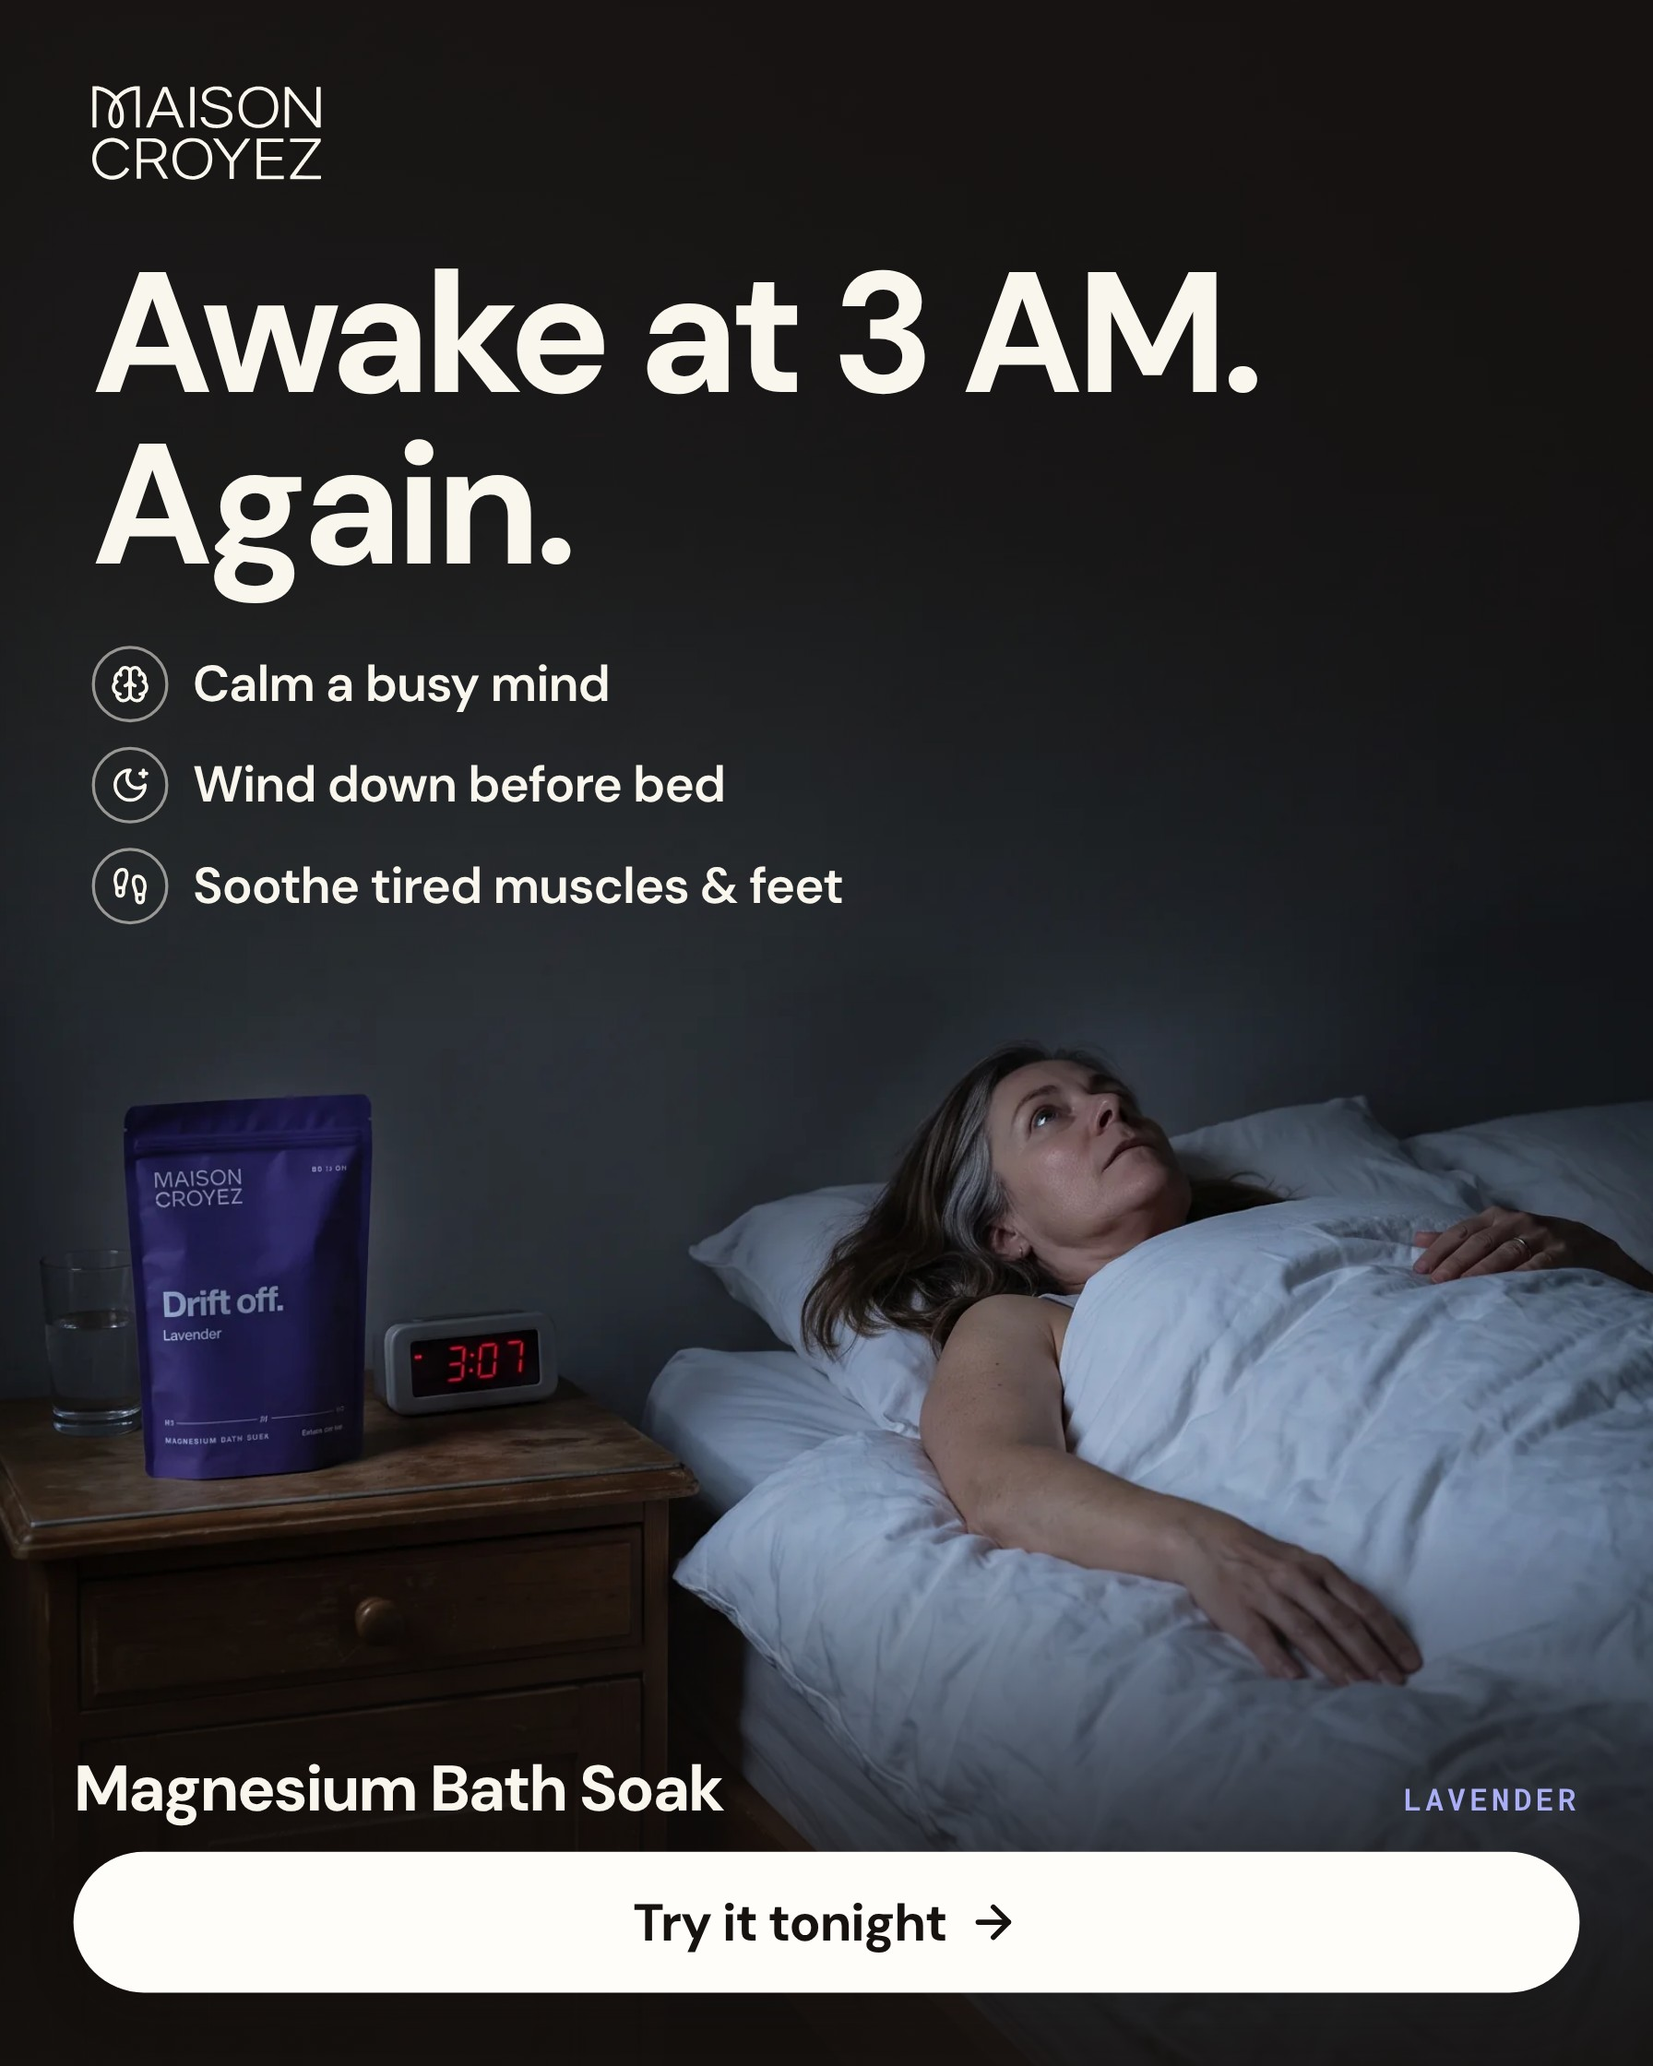
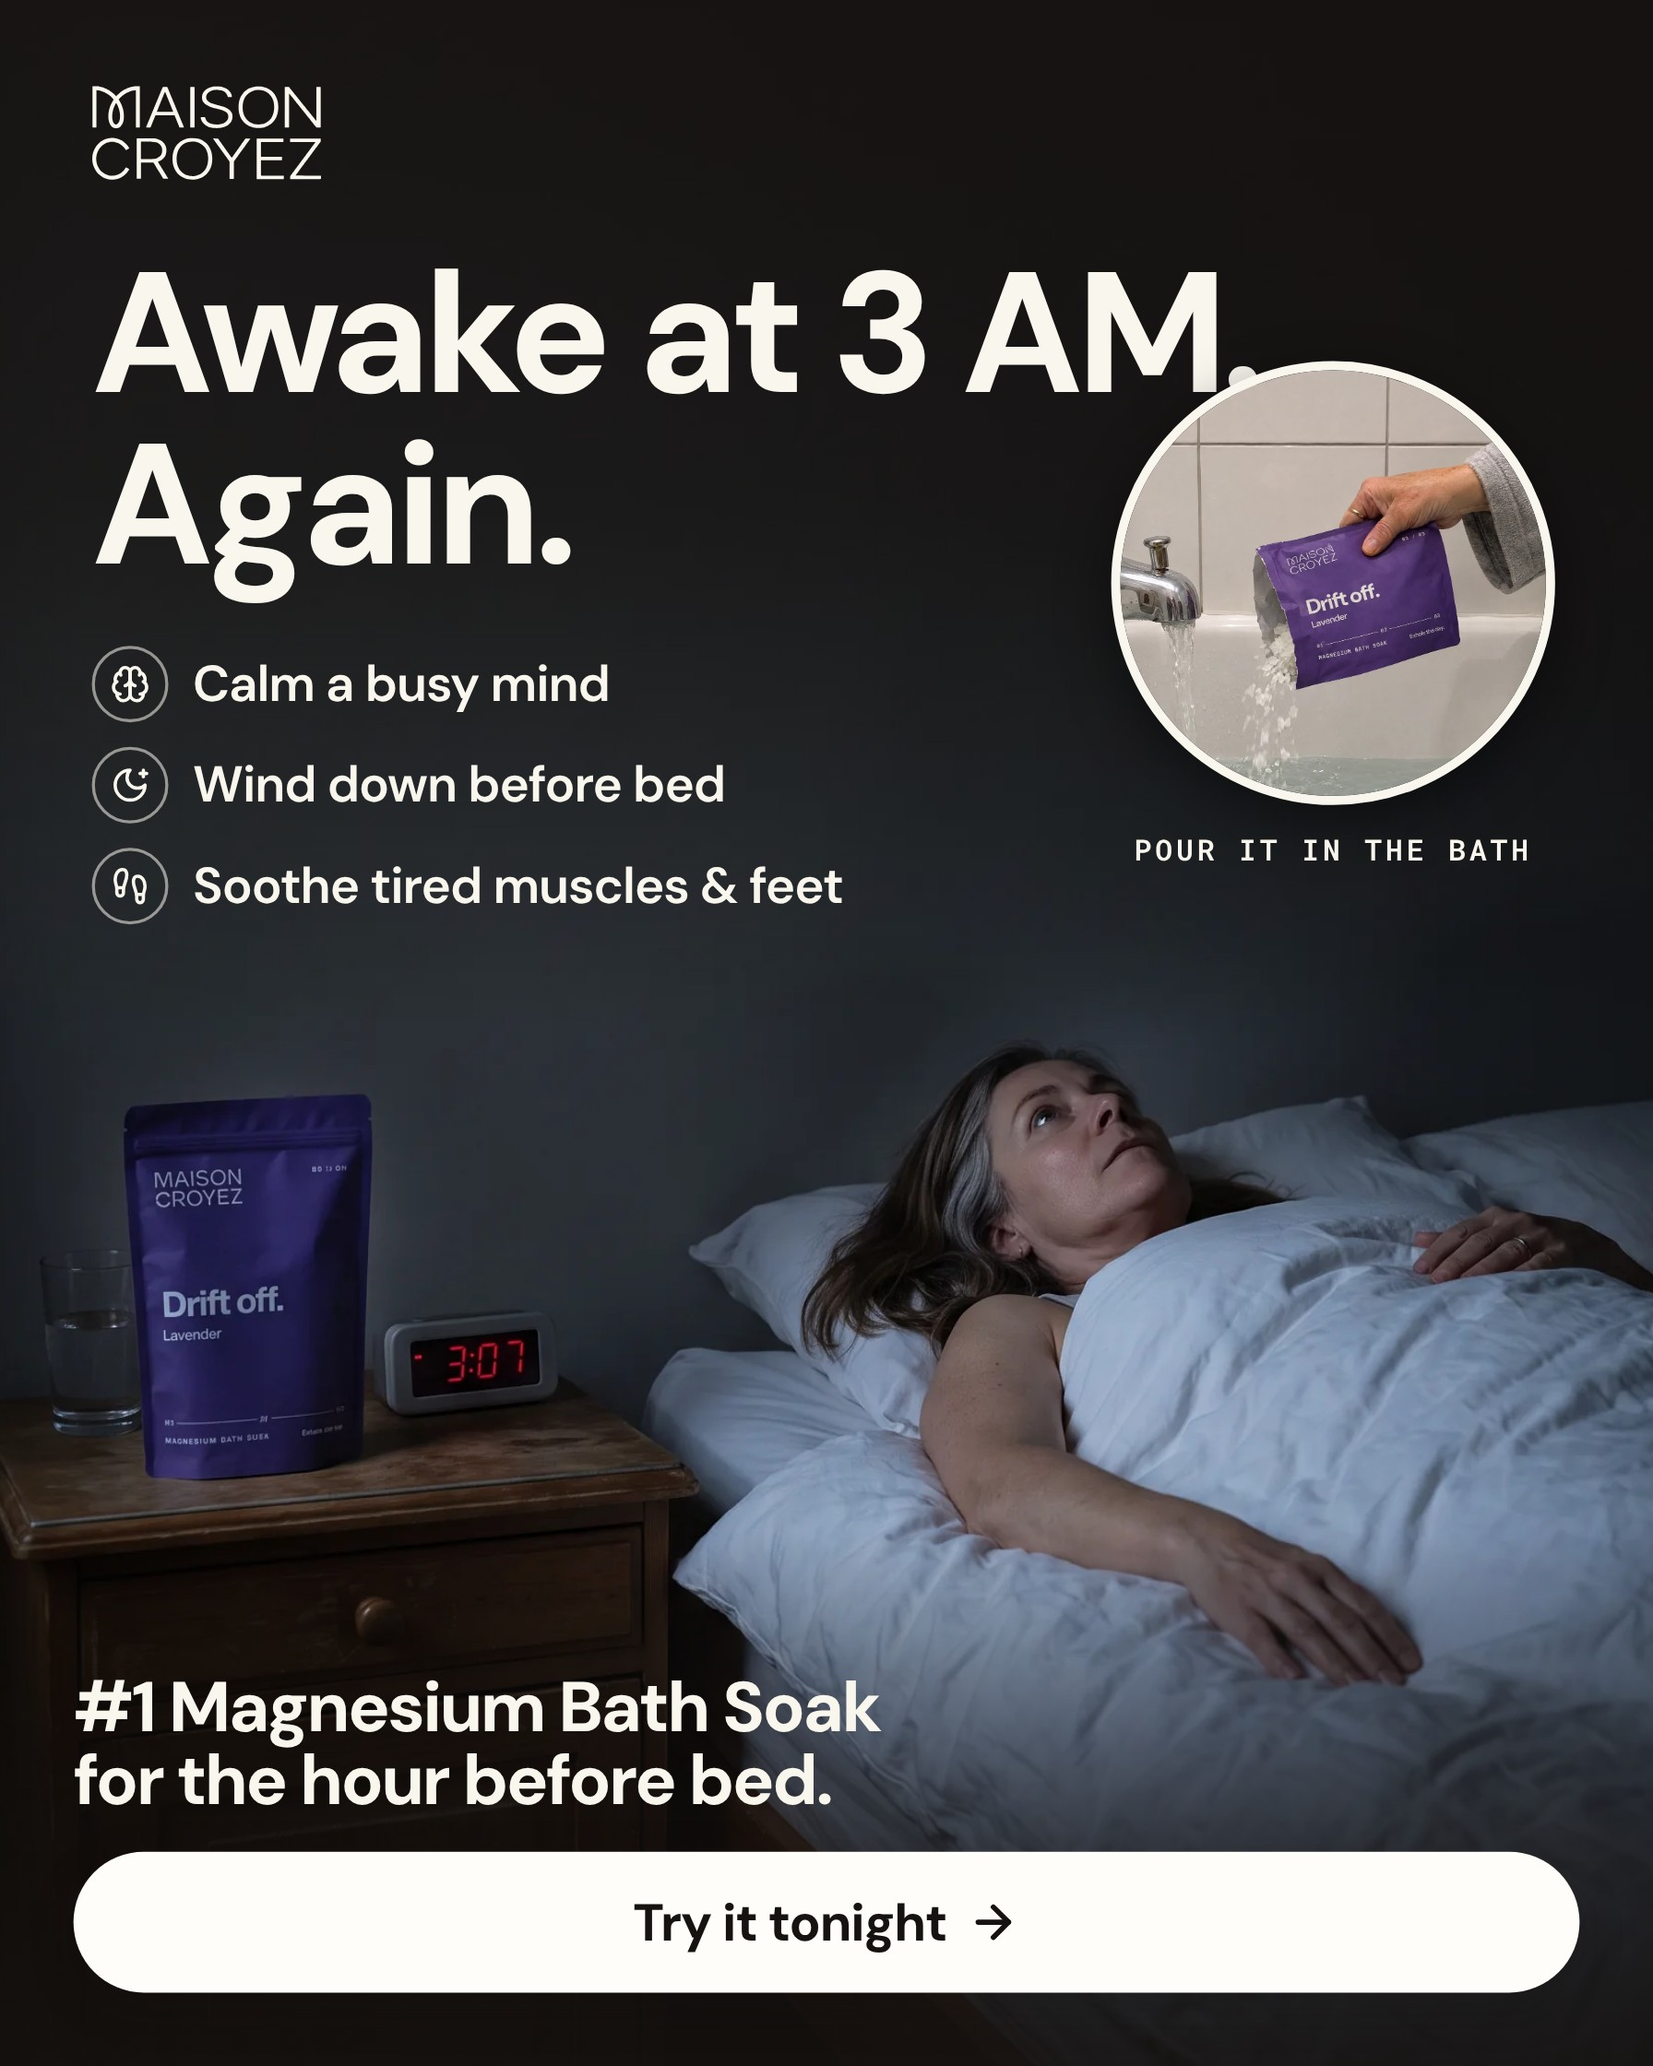
Bath soak ads: the owner's text changes; fetch the reshot aches and foot basin photos
Claude-Session: https://claude.ai/code/session_01Qt6jwbZYcUd6pzyfawb3Bj

diff --git a/lp-factory/ads/bath-soak/make-ads.js b/lp-factory/ads/bath-soak/make-ads.js
@@ -43,7 +43,14 @@ h1{font-weight:700;letter-spacing:-.04em;line-height:1.0;margin-top:44px;max-wid
 .vlist li{display:flex;align-items:center;gap:16px;font-weight:600;font-size:33px;letter-spacing:-.02em}
 .vlist .ic{width:50px;height:50px;border:2px solid rgba(249,246,238,.55)}.vlist svg{width:26px;height:26px}
 .foot{position:absolute;left:48px;right:48px;bottom:48px}
-.foot .top{display:flex;justify-content:space-between;align-items:baseline;margin-bottom:20px}
+.foot .top{margin-bottom:22px}
+.foot .nm{font-size:46px;line-height:1.04;display:block}
+.circ{position:absolute;border-radius:50%;overflow:hidden;border:6px solid #F9F6EE;box-shadow:0 12px 36px rgba(0,0,0,.45)}
+.circ img{width:100%;height:100%;object-fit:cover;display:block}
+.circ-cap{position:absolute;text-align:center;font:600 19px/1.2 "Roboto Mono",monospace;letter-spacing:.12em;text-transform:uppercase;color:#F9F6EE}
+.big{font-weight:700;font-size:52px;letter-spacing:-.03em;line-height:1;text-transform:uppercase;text-align:center;white-space:nowrap}
+.cbot.col{flex-direction:column;align-items:center;gap:22px}
+.blk .sub{color:#F1EADC;font-size:34px;margin-top:16px}
 /* 02 callouts and 11 stickers */
 .co{position:absolute;display:flex;align-items:center;gap:14px;background:#FFFDF9;color:#161210;border-radius:24px;padding:14px 22px 14px 14px;font-weight:600;font-size:28px;line-height:1.1;letter-spacing:-.02em;box-shadow:0 8px 28px rgba(22,18,16,.2)}
 .co .ic{width:58px;height:58px;background:#E7E8FB;color:#4B55D6}.co svg{width:31px;height:31px}
@@ -62,9 +69,9 @@ h1{font-weight:700;letter-spacing:-.04em;line-height:1.0;margin-top:44px;max-wid
 .nums em{font:600 21px/1 "Roboto Mono",monospace;letter-spacing:.1em;color:#4B55D6;font-style:normal;display:block}
 .nums span{display:block;margin-top:10px;font-weight:700;font-size:30px;line-height:1.08;letter-spacing:-.025em;text-wrap:balance}
 /* 05 timeline */
-.rows{display:grid;gap:24px;margin-top:36px;align-self:stretch}
-.r{display:grid;grid-template-columns:218px 1fr;gap:32px;align-items:center}
-.r img{width:218px;height:218px;object-fit:cover;border-radius:24px;display:block}
+.rows{display:grid;gap:20px;margin-top:32px;align-self:stretch}
+.r{display:grid;grid-template-columns:196px 1fr;gap:30px;align-items:center}
+.r img{width:196px;height:196px;object-fit:cover;border-radius:24px;display:block}
 .r .t{font:600 24px/1 "Roboto Mono",monospace;letter-spacing:.1em;color:#4B55D6;display:flex;align-items:center;gap:16px}
 .r .t::after{content:"";flex:1;height:2px;background:#161210;opacity:.3}
 .r b{display:block;font-size:44px;letter-spacing:-.035em;line-height:1.05;margin-top:12px}
@@ -120,47 +127,49 @@ const cta = (a, cls) => `<span class="cta ${cls}">${esc(a.cta)}${icon('arrow-rig
 const head = (a, right) => `<div class="bar">${LOGO}${right || ''}</div>`;
 const hook = (a) => `<h1 style="font-size:${a.size}px">${esc(a.h)}</h1>${a.sub ? `<p class="sub">${esc(a.sub)}</p>` : ''}${a.src ? `<span class="src">${esc(a.src)}</span>` : ''}`;
 const namePill = `<span class="pill">${esc(CFG.product)}</span>`;
+const nm = (a) => esc(a.name || CFG.product); // the words beside or above the button
+const circ = (a) => a.circle ? `<div class="circ" style="${at(a.circle)};height:${a.circle.width}px"><img src="${img(a.circle.img)}" style="object-position:${a.circle.pos || '50% 50%'}"></div><div class="circ-cap" style="left:${1080 - a.circle.right - a.circle.width - 30}px;width:${a.circle.width + 60}px;top:${a.circle.top + a.circle.width + 18}px">${esc(a.circle.cap)}</div>` : '';
 const at = (o) => ['left', 'right', 'top', 'bottom', 'width'].filter((k) => o[k] !== undefined).map((k) => `${k}:${o[k]}px`).join(';') + (o.rot ? `;transform:rotate(${o.rot}deg)` : '');
 
 const L = {
   // 01: the benefits as a list under the hook on the dark wall; product name and a wide button at the bottom
   list: (a) => `<div class="ad ${a.theme}">${photo(a)}${scrim(a)}<div class="scrim" style="background:linear-gradient(to top,rgba(22,18,16,.9) 0%,rgba(22,18,16,.6) 12%,rgba(22,18,16,0) 26%)"></div>
     <div class="in">${head(a)}${hook(a)}<ul class="vlist">${bens(a).map((b) => `<li><span class="ic">${icon(b.icon)}</span>${esc(b.text)}</li>`).join('')}</ul></div>
-    <div class="foot"><div class="top"><span class="nm">${esc(CFG.product)}</span><span class="mono" style="color:#A9AEF7">${esc(a.tag || '')}</span></div>${cta(a, 'cream full')}</div></div>`,
+    ${circ(a)}<div class="foot"><div class="top"><span class="nm">${nm(a)}</span></div>${cta(a, 'cream full')}</div></div>`,
   // 02: the benefits as callouts around her; product name in the header; button centered
-  callouts: (a) => `<div class="ad ${a.theme}">${photo(a)}${scrim(a)}<div class="in">${head(a, namePill)}${hook(a)}</div>
+  callouts: (a) => `<div class="ad ${a.theme}">${photo(a)}${scrim(a)}<div class="scrim" style="background:linear-gradient(to top,rgba(249,246,238,.96) 0%,rgba(249,246,238,.9) 13%,rgba(249,246,238,0) 27%)"></div><div class="in">${head(a)}${hook(a)}</div>
     ${bens(a).map((b, i) => `<div class="co" style="${at(a.spots[i])}"><span class="ic">${icon(b.icon)}</span><span>${esc(b.text)}</span></div>`).join('')}
-    <div class="cbot">${cta(a, 'ind')}</div></div>`,
+    <div class="cbot col"><span class="big">${nm(a)}</span>${cta(a, 'ind')}</div></div>`,
   // 03: a dark band across the bottom with the three benefits; name and button on the tub above it
   band: (a) => `<div class="ad ${a.theme}">${photo(a)}${scrim(a)}<div class="in">${head(a)}${hook(a)}</div>
-    <div class="nrow" style="bottom:${a.rowBottom || 204}px"><span class="nm chip">${esc(CFG.product)}</span>${cta(a, 'ind')}</div>
+    <div class="nrow" style="bottom:${a.rowBottom || 204}px"><span class="nm chip">${nm(a)}</span>${cta(a, 'ind')}</div>
     <div class="band">${bens(a).map((b) => `<div><span class="ic">${icon(b.icon)}</span><span>${esc(b.text)}</span></div>`).join('')}</div></div>`,
   // 04: an editorial page: the claim, the photo in a frame, the benefits numbered
   framed: (a) => `<div class="ad light"><div class="in">${head(a)}${hook(a)}</div>
     <div class="frame" style="top:${a.frame[0]}px;height:${a.frame[1]}px"><img src="${img(a.img)}" style="object-position:${a.pos || '50% 50%'}"></div>
     <ol class="nums" style="top:${a.frame[0] + a.frame[1] + 34}px">${bens(a).map((b, i) => `<li><em>0${i + 1}</em><span>${esc(b.text)}</span></li>`).join('')}</ol>
-    <div class="nrow" style="bottom:48px"><span class="nm">${esc(CFG.product)}</span>${cta(a, 'ind')}</div></div>`,
+    <div class="nrow" style="bottom:48px"><span class="nm">${nm(a)}</span>${cta(a, 'ind')}</div></div>`,
   // 05: the evening as a timeline; benefits in one row; a wide button that names the product
-  clock: (a) => `<div class="ad light"><div class="in">${head(a)}<h1 style="font-size:${a.size}px">${esc(a.h)}</h1><div class="rows">${a.rows.map((r) => `<div class="r"><img src="${img(r[0])}"${r[4] ? ` style="object-position:${r[4]}"` : ''}><div><div class="t">${esc(r[1])}</div><b>${esc(r[2])}</b>${r[3] ? `<span>${esc(r[3])}</span>` : ''}</div></div>`).join('')}</div></div>
+  clock: (a) => `<div class="ad light"><div class="in">${head(a)}<h1 style="font-size:${a.size}px">${esc(a.h)}</h1>${a.sub ? `<p class="sub">${esc(a.sub)}</p>` : ''}<div class="rows">${a.rows.map((r) => `<div class="r"><img src="${img(r[0])}"${r[4] ? ` style="object-position:${r[4]}"` : ''}><div><div class="t">${esc(r[1])}</div><b>${esc(r[2])}</b>${r[3] ? `<span>${esc(r[3])}</span>` : ''}</div></div>`).join('')}</div></div>
     <div class="inl onlight" style="position:absolute;left:60px;right:60px;bottom:176px">${bens(a).map((b) => `<div><span class="ic">${icon(b.icon)}</span><span>${esc(b.text)}</span></div>`).join('')}</div>
     <div class="cbot">${cta(a, 'ind full')}</div></div>`,
   // 06: photo on top, a color block below with the hook, the benefits in a row, name and button
   splitBottom: (a) => `<div class="ad light" style="background:${COL[a.color]}"><div class="ph" style="top:0;height:${a.split}px"><img src="${img(a.img)}" style="object-position:${a.pos || '50% 50%'}"></div>
     <div class="in">${head(a)}</div>
-    <div class="blk" style="top:${a.split}px;bottom:0;background:${COL[a.color]}"><h1 style="font-size:${a.size}px">${esc(a.h)}</h1>
-    <div class="inl ondark" style="margin-top:30px">${bens(a).map((b) => `<div><span class="ic">${icon(b.icon)}</span><span>${esc(b.text)}</span></div>`).join('')}</div>
-    <div class="nrow2"><span class="nm">${esc(CFG.product)}<small class="mono" style="color:rgba(249,246,238,.75)">${esc(a.tag || '')}</small></span>${cta(a, 'cream')}</div></div></div>`,
+    <div class="blk" style="top:${a.split}px;bottom:0;background:${COL[a.color]}"><h1 style="font-size:${a.size}px">${esc(a.h)}</h1>${a.sub ? `<p class="sub">${esc(a.sub)}</p>` : ''}
+    <div class="inl ondark" style="margin-top:28px">${bens(a).map((b) => `<div><span class="ic">${icon(b.icon)}</span><span>${esc(b.text)}</span></div>`).join('')}</div>
+    <div class="nrow2">${cta(a, 'cream full')}</div></div></div>`,
   // 07: three tiles on the floor, the button under them; product name in the header
-  tiles: (a) => `<div class="ad ${a.theme}">${photo(a)}${scrim(a)}<div class="in">${head(a, namePill)}${hook(a)}</div>
+  tiles: (a) => `<div class="ad ${a.theme}">${photo(a)}${scrim(a)}<div class="in">${head(a)}${hook(a)}</div>
     <div class="tiles" style="bottom:${a.tilesBottom || 146}px">${bens(a).map((b) => `<div class="tile">${icon(b.icon)}${esc(b.text)}</div>`).join('')}</div>
     <div class="cbot" style="bottom:40px">${cta(a, 'night full')}</div></div>`,
   // 08: a checklist panel beside her, with the product name as its title; button at the bottom corner
   panel: (a) => `<div class="ad ${a.theme}">${photo(a)}${scrim(a)}<div class="in">${head(a)}${hook(a)}</div>
-    <div class="panel" style="${at(a.panel)}"><span class="mono">${esc(CFG.product)}</span><ul>${bens(a).map((b) => `<li><span class="ic">${icon('check')}</span><span>${esc(b.text)}</span></li>`).join('')}</ul></div>
+    <div class="panel" style="${at(a.panel)}"><span class="mono">${esc(a.panelTitle || CFG.product)}</span><ul>${bens(a).map((b) => `<li><span class="ic">${icon('check')}</span><span>${esc(b.text)}</span></li>`).join('')}</ul></div>
     <div style="position:absolute;${at(a.ctaAt)}">${cta(a, 'ind')}</div></div>`,
   // 09: one card: name, button, the three benefits with icons
   card: (a) => `<div class="ad ${a.theme}">${photo(a)}${scrim(a)}<div class="in">${head(a)}${hook(a)}</div>
-    <div class="card"><div class="ct"><b>${esc(CFG.product)}</b>${cta(a, 'ind sm')}</div><div class="bs">${bens(a).map((b) => `<div class="b"><span class="ic">${icon(b.icon)}</span><span>${esc(b.text)}</span></div>`).join('')}</div></div></div>`,
+    <div class="card"><div class="ct"><b>${nm(a)}</b>${cta(a, 'ind sm')}</div><div class="bs">${bens(a).map((b) => `<div class="b"><span class="ic">${icon(b.icon)}</span><span>${esc(b.text)}</span></div>`).join('')}</div></div></div>`,
   // 10: a caption under each bag, the benefits as one line, the button centered, all on the white side of the tub
   shelf: (a) => `<div class="ad ${a.theme}">${photo(a)}${scrim(a)}<div class="in">${head(a)}${hook(a)}</div>
     ${a.caps.map((c) => `<div class="cap" style="left:${c[0] - 125}px;top:${a.capTop}px"><span class="mono">${esc(c[1])}</span><b>${esc(c[2])}</b></div>`).join('')}
@@ -173,7 +182,7 @@ const L = {
   // 12: a color block on top with the hook, the product line and the benefits as tags; photo below; button on the photo
   splitTop: (a) => `<div class="ad light" style="background:${COL[a.color]}"><div class="ph" style="top:${a.split}px;bottom:0"><img src="${img(a.img)}" style="object-position:${a.pos || '50% 50%'}"></div>
     <div class="blk" style="top:0;height:${a.split}px;background:${COL[a.color]};padding-top:56px"><div style="width:150px">${LOGO}</div><h1 style="font-size:${a.size}px;margin-top:38px">${esc(a.h)}</h1>
-    <span class="mono" style="margin-top:22px;color:rgba(249,246,238,.82)">${esc(a.tag)}</span>
+    <p class="sub">${esc(a.sub)}</p>
     <div class="tags">${bens(a).map((b) => `<span>${icon(b.icon)}${esc(b.text)}</span>`).join('')}</div></div>
     <div class="cbot">${cta(a, 'cream')}</div></div>`,
 };
@@ -190,7 +199,7 @@ const L = {
     const fits = await pg.evaluate((product) => { const all = [...document.querySelectorAll('.ad h1,.ad p,.ad li,.ad .cta,.ad .co,.ad .st,.ad .tile,.ad .panel,.ad .card,.ad .cap,.ad .line div,.ad .inl div,.ad .band div,.ad .tags span,.ad .nm,.ad .pill,.ad .src')];
       const out = all.filter((e) => { const r = e.getBoundingClientRect(); return r.left < 20 || r.right > 1060 || r.bottom > 1338 || r.top < 20; }).map((e) => e.className || e.tagName);
       const h = document.querySelector('h1'); const t = document.querySelector('.ad').innerText;
-      return { h1Lines: Math.round(h.getBoundingClientRect().height / parseFloat(getComputedStyle(h).lineHeight)), h1Ends: Math.round(h.getBoundingClientRect().bottom), outside: out, cta: !!document.querySelector('.cta'), named: /magnesium (bath )?soak/i.test(t), fonts: [...document.fonts].filter((x) => x.status === 'loaded').length }; }, CFG.product);
+      return { h1Lines: Math.round(h.getBoundingClientRect().height / parseFloat(getComputedStyle(h).lineHeight)), h1Ends: Math.round(h.getBoundingClientRect().bottom), outside: out, cta: !!document.querySelector('.cta'), named: /magnesium (bath )?soak/i.test(t) ? 'magnesium' : /bath soak/i.test(t) ? 'bath soak only' : 'NO', fonts: [...document.fonts].filter((x) => x.status === 'loaded').length }; }, CFG.product);
     await (await pg.$('.ad')).screenshot({ path: path.join(OUT, `bath-soak-ad-${a.id}.jpg`), type: 'jpeg', quality: 90 });
     console.log(a.id, a.layout, JSON.stringify(fits));
   }
